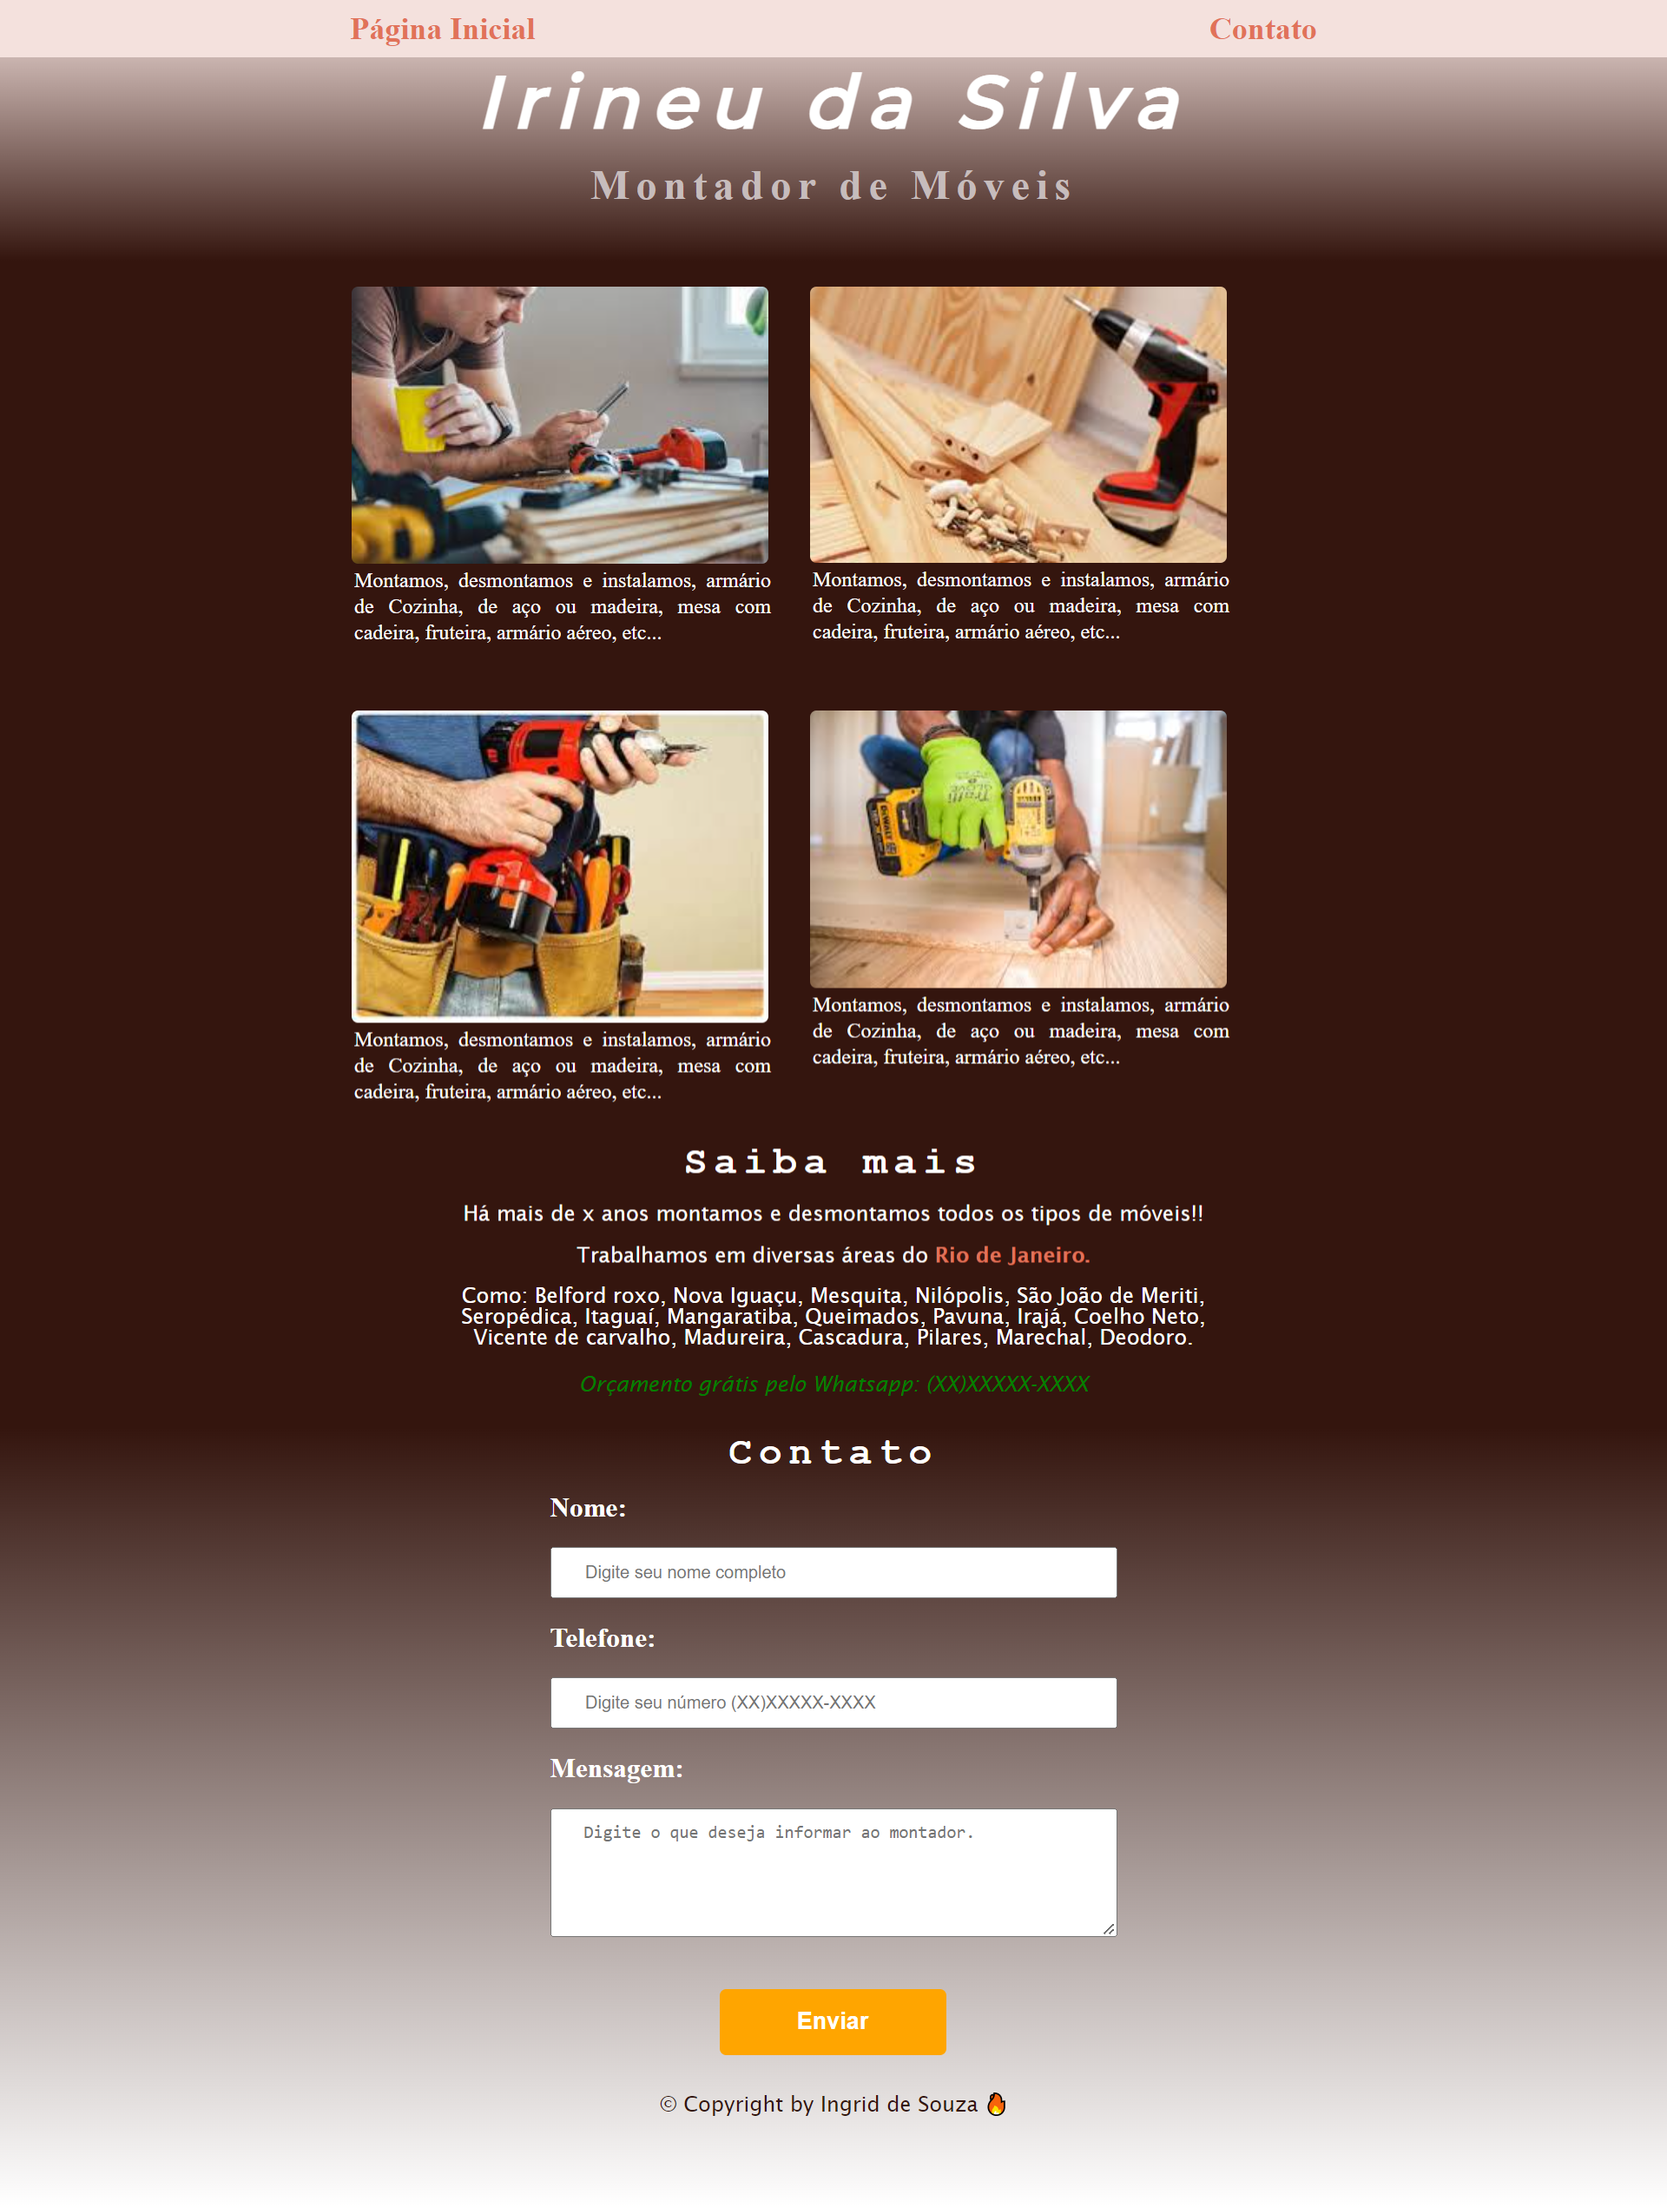
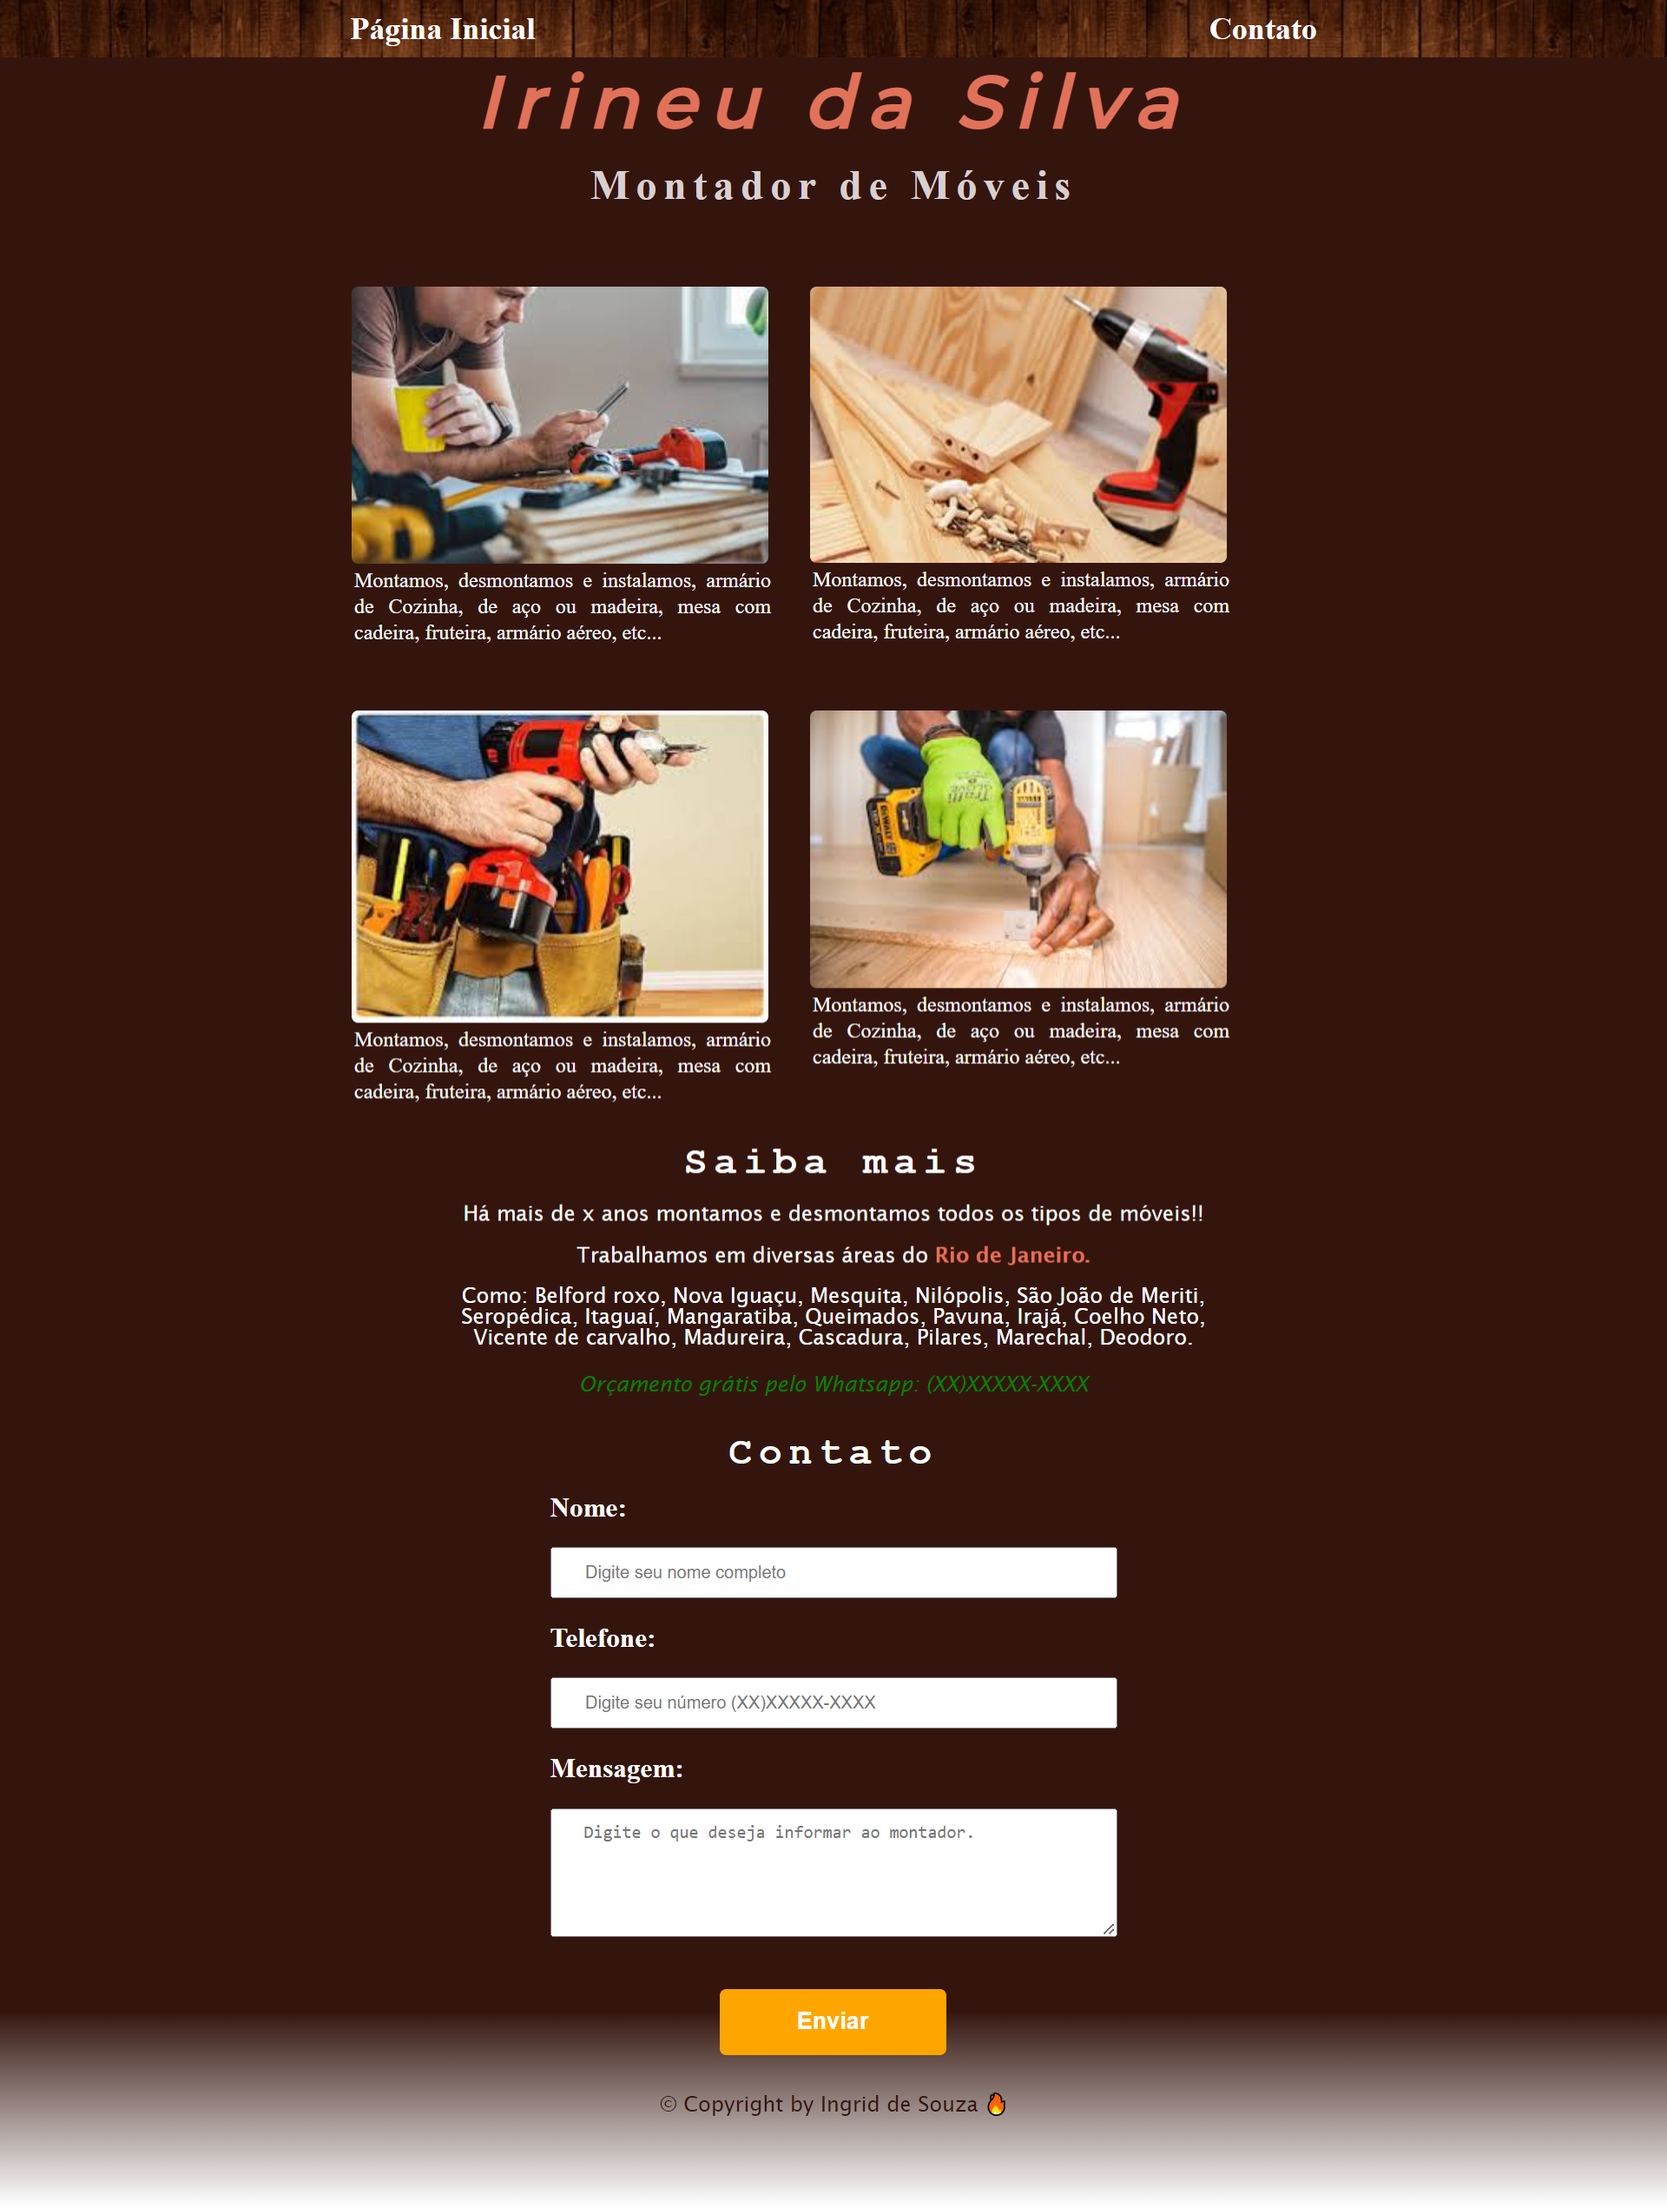
mudando algumas coisas

diff --git a/estilos/style.css b/estilos/style.css
@@ -16,22 +16,22 @@
 	justify-content: space-around;
 }
 .link_contato-info {
-	color: #e17259;
+	color: #fff;
 	font-weight: bold;
 	font-size: 1.5rem;
 	text-decoration: none;
 }
 .link_contato-info:hover {
-	color: #34150e;
+	color: #e17259;
 }
 .header_contato {
-	background: #f4e1dd;
+	background: url('../images/1e73c601d909172f1fabe222cf27e99e.jpg');
 	position: fixed;
 	width: 100%;
 	padding: 10px 0;
 }
 .header-info {
-	background: linear-gradient(to top,#34150e 0%, #f4e1dd 100%);
+	background: #34150e;
 	height: 200px;
 	display: flex;
 	flex-direction: column;
@@ -42,7 +42,7 @@
 	font-size: 3.5rem;
 	font-style: italic;
 	font-weight: bold;
-	color: #fff;
+	color: #e17259;
 	padding-bottom: 20px;
 	padding-top: 50px;
 	letter-spacing: 10px;
@@ -50,13 +50,13 @@
 .header-info h2 {
 	font-size: 2rem;
 	text-align: center;
-	color: #c6bcbc;
+	color: #d8d0d0;
 	font-weight: bold;
 	letter-spacing: 5px;
 }
 .principal {
-	background: linear-gradient(to bottom,#34150e 60%, #fff 100%);
-	color:white;
+	background: linear-gradient(to bottom,#34150e 90%, #fff 100%);
+	color:#fff;
 	display: flex;
 	flex-direction: column;
 	justify-content: center;
